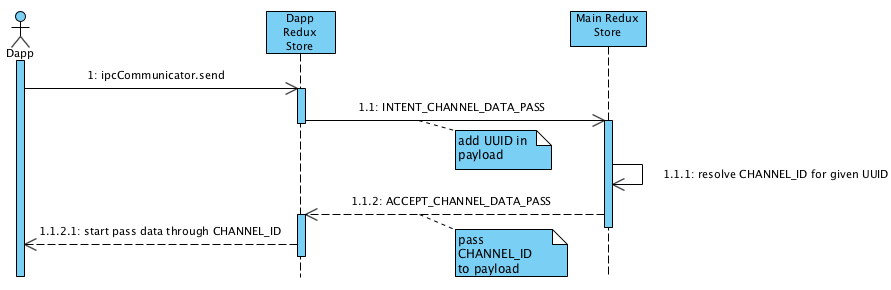
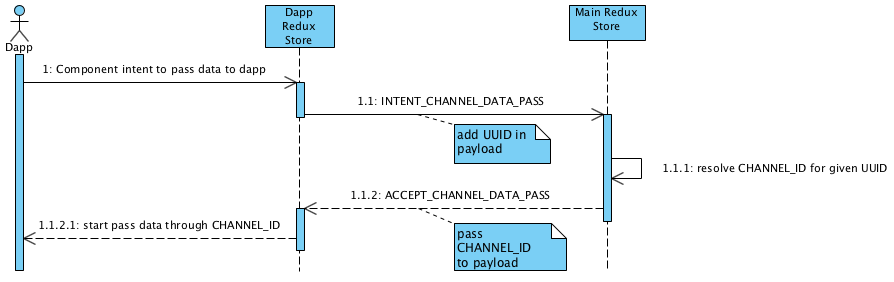
fix diagram logic

diff --git a/docs/README.md b/docs/README.md
@@ -3,19 +3,26 @@
 
 
 Redux middleware for permission check diagram:
+
 ![alt text](./diagrams/permissionMiddleware.png?raw=true "Permission middleware")
 
 UUID target store resolver diagram:
+
 ![alt text](./diagrams/forwardToRendererWrapper.png?raw=true "forwardToRendererWrapper middleware mechanizm")
 
 Dapp communication protocol:
+
 ![alt text](./diagrams/DappCommunication.png?raw=true "Dapp communication")
 
-Resolve CHANNEL_ID before dapp communication starts:
+Events API protocol:
+
+![alt text](./diagrams/eventsMechanizm.png?raw=true "Events mechanizm")
+
+Resolve CHANNEL_ID for dapp renderer process to get data from main process (ex. LocalStorage, BitShares, etc. related channels):
+
 ![alt text](./diagrams/channelIdResolve.png?raw=true "Resolve channelId")
 
-Events API protocol:
-![alt text](./diagrams/eventsMechanizm.png?raw=true "Events mechanizm")
+
 
 #### Links
 > https://www.i2b2.org/software/projects/datarepo/CRC_Architecture_10.pdf
